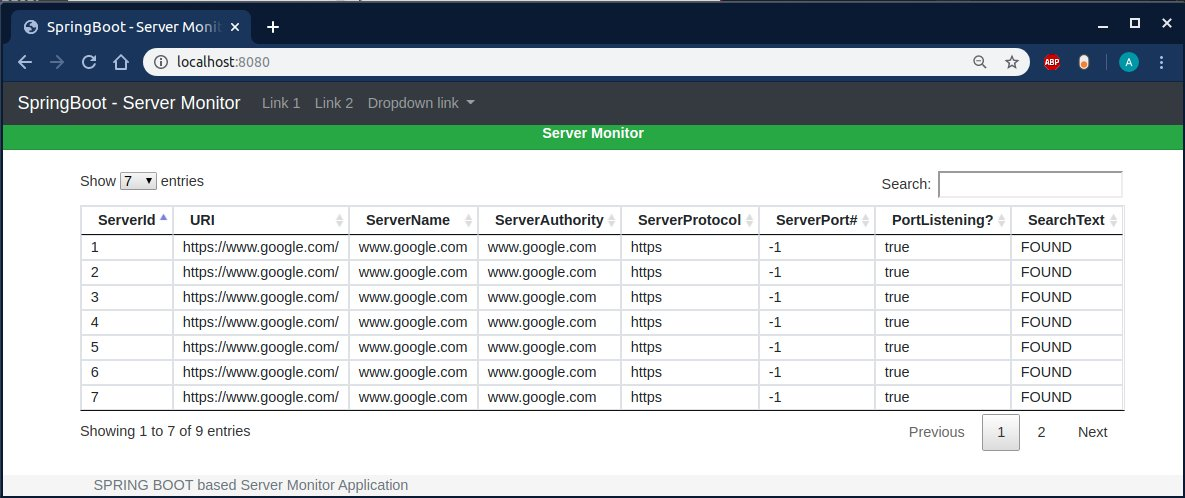
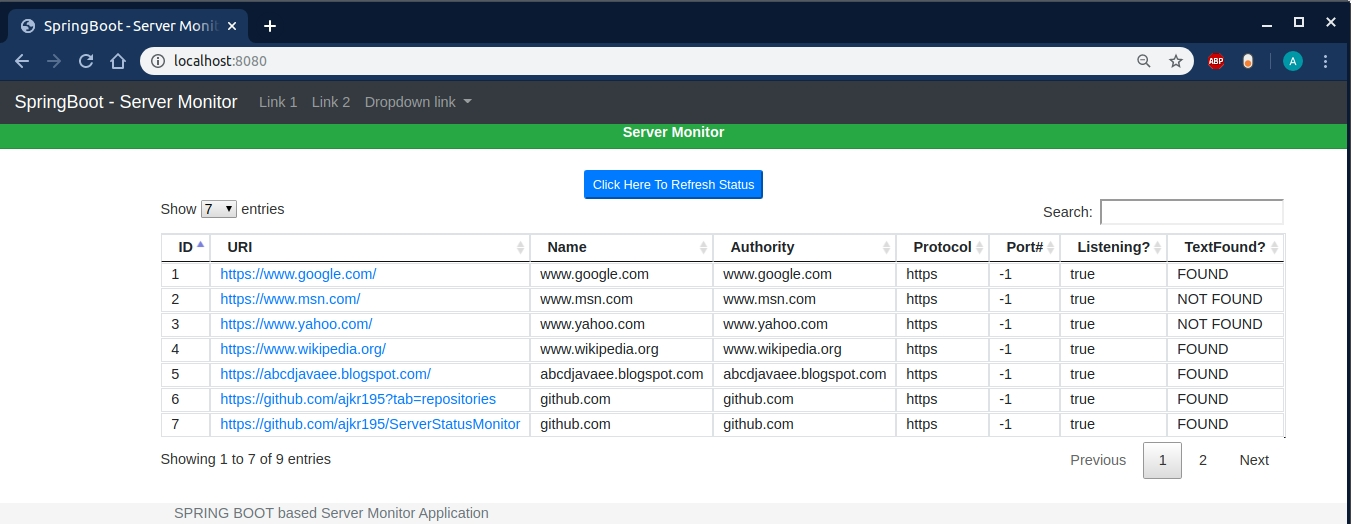
updated

Changed region(s): [[0.0, 0.0, 1.0, 1.0]]

diff --git a/src/main/resources/templates/index.html b/src/main/resources/templates/index.html
@@ -27,7 +27,7 @@
 </head>
 
 <body>
-	<nav class="navbar navbar-expand-sm bg-dark navbar-dark py-1">
+	<nav class="navbar bg-custom navbar-expand-sm bg-dark navbar-dark py-1">
 		<a class="navbar-brand" href="/">SpringBoot - Server Monitor</a>
 		<button type="button" class="navbar-toggler" data-toggle="collapse"
 			data-target="#nav">
@@ -60,7 +60,7 @@
 
 	<br>
 	<div class="col text-center">
-		<button type="button" id="refreshButton" class="btn btn-primary">Click Here To Refresh Status</button>
+		<button type="button" id="refreshButton" class="btn-sm btn-primary">Click Here To Refresh Status</button>
 	</div>
 	<div class="container">
 		<!-- 		<h1>Server Table</h1> -->
@@ -69,14 +69,14 @@
 				class="table  table-responsive table-condensed table-bordered table-hover">
 				<thead>
 					<tr>
-						<th>ServerId</th>
+						<th>ID</th>
 						<th>URI</th>
-						<th>ServerName</th>
-						<th>ServerAuthority</th>
-						<th>ServerProtocol</th>
-						<th>ServerPort#</th>
-						<th>PortListening?</th>
-						<th>SearchText</th>
+						<th>Name</th>
+						<th>Authority</th>
+						<th>Protocol</th>
+						<th>Port#</th>
+						<th>Listening?</th>
+						<th>TextFound?</th>
 
 					</tr>
 				</thead>

diff --git a/src/main/resources/static/js/jqueryAjaxGet.js b/src/main/resources/static/js/jqueryAjaxGet.js
@@ -14,7 +14,7 @@ $(document).ready(function() {
 					
 					var serverRow = '<tr>' +
 										'<td>' + server.serverid + '</td>' +
-										'<td>' + server.serverurl + '</td>' +
+										'<td><a href="'+ server.serverurl + '" target="_blank" </a>'+ server.serverurl + '</td>' +
 										'<td>' + server.servername + '</td>' +
 										'<td>' + server.serverauthority + '</td>' +
 										'<td>' + server.serverprotocol + '</td>' +
